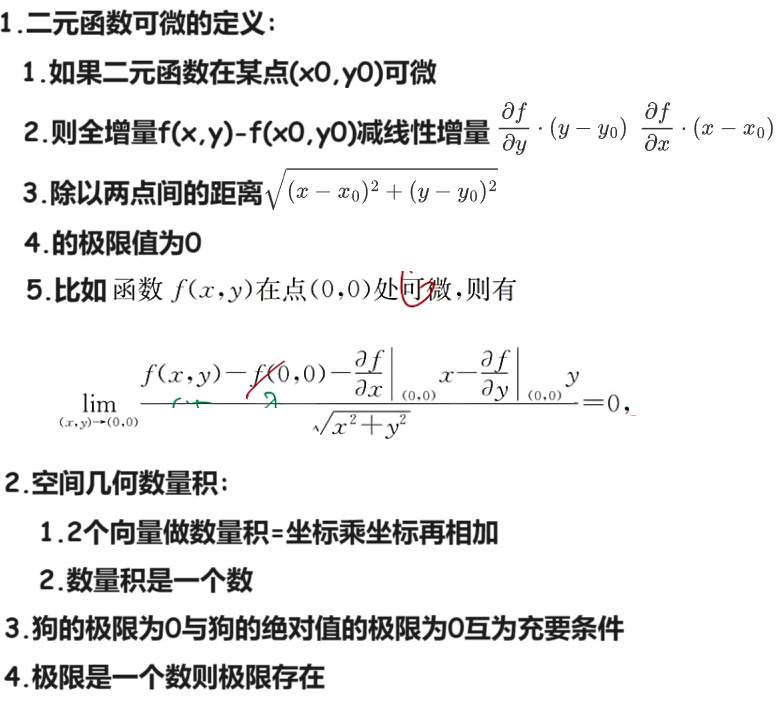
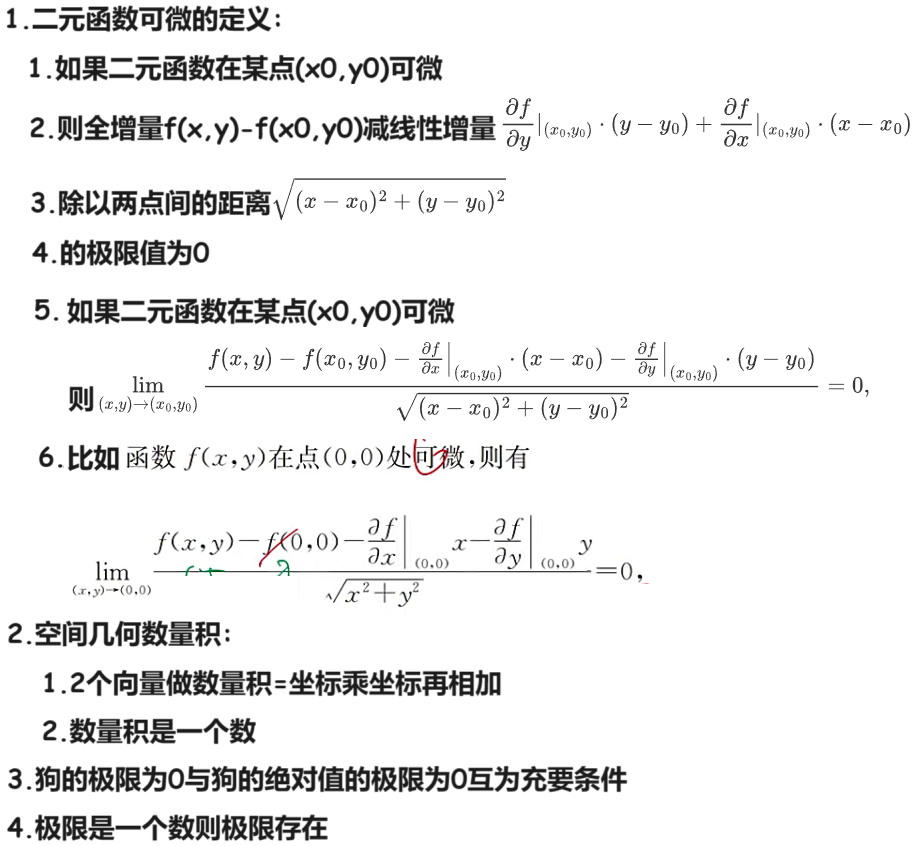
231118

diff --git a/05 每日一题/21 20T3【二元函数可微】231118/01 Note.md b/05 每日一题/21 20T3【二元函数可微】231118/01 Note.md
@@ -1,6 +1,6 @@
 # 背诵
 
-<img src="https://cvp.oss-cn-shanghai.aliyuncs.com/picgo/202311181930432.png" alt="image-20231118193045359" style="zoom:50%;" />
+<img src="https://cvp.oss-cn-shanghai.aliyuncs.com/picgo/202311182046641.png" style="zoom:50%;" />
 
 
 

diff --git a/05 每日一题/22 20T10【级数问题】231118/01 Note.md b/05 每日一题/22 20T10【级数问题】231118/01 Note.md
@@ -1,0 +1,18 @@
+# 背诵
+
+
+
+
+
+# 题目
+
+<img src="https://cvp.oss-cn-shanghai.aliyuncs.com/picgo/202311181933093.png" alt="image-20231118193301010" style="zoom:50%;" />
+
+
+
+# 视频解析
+
+
+
+
+
